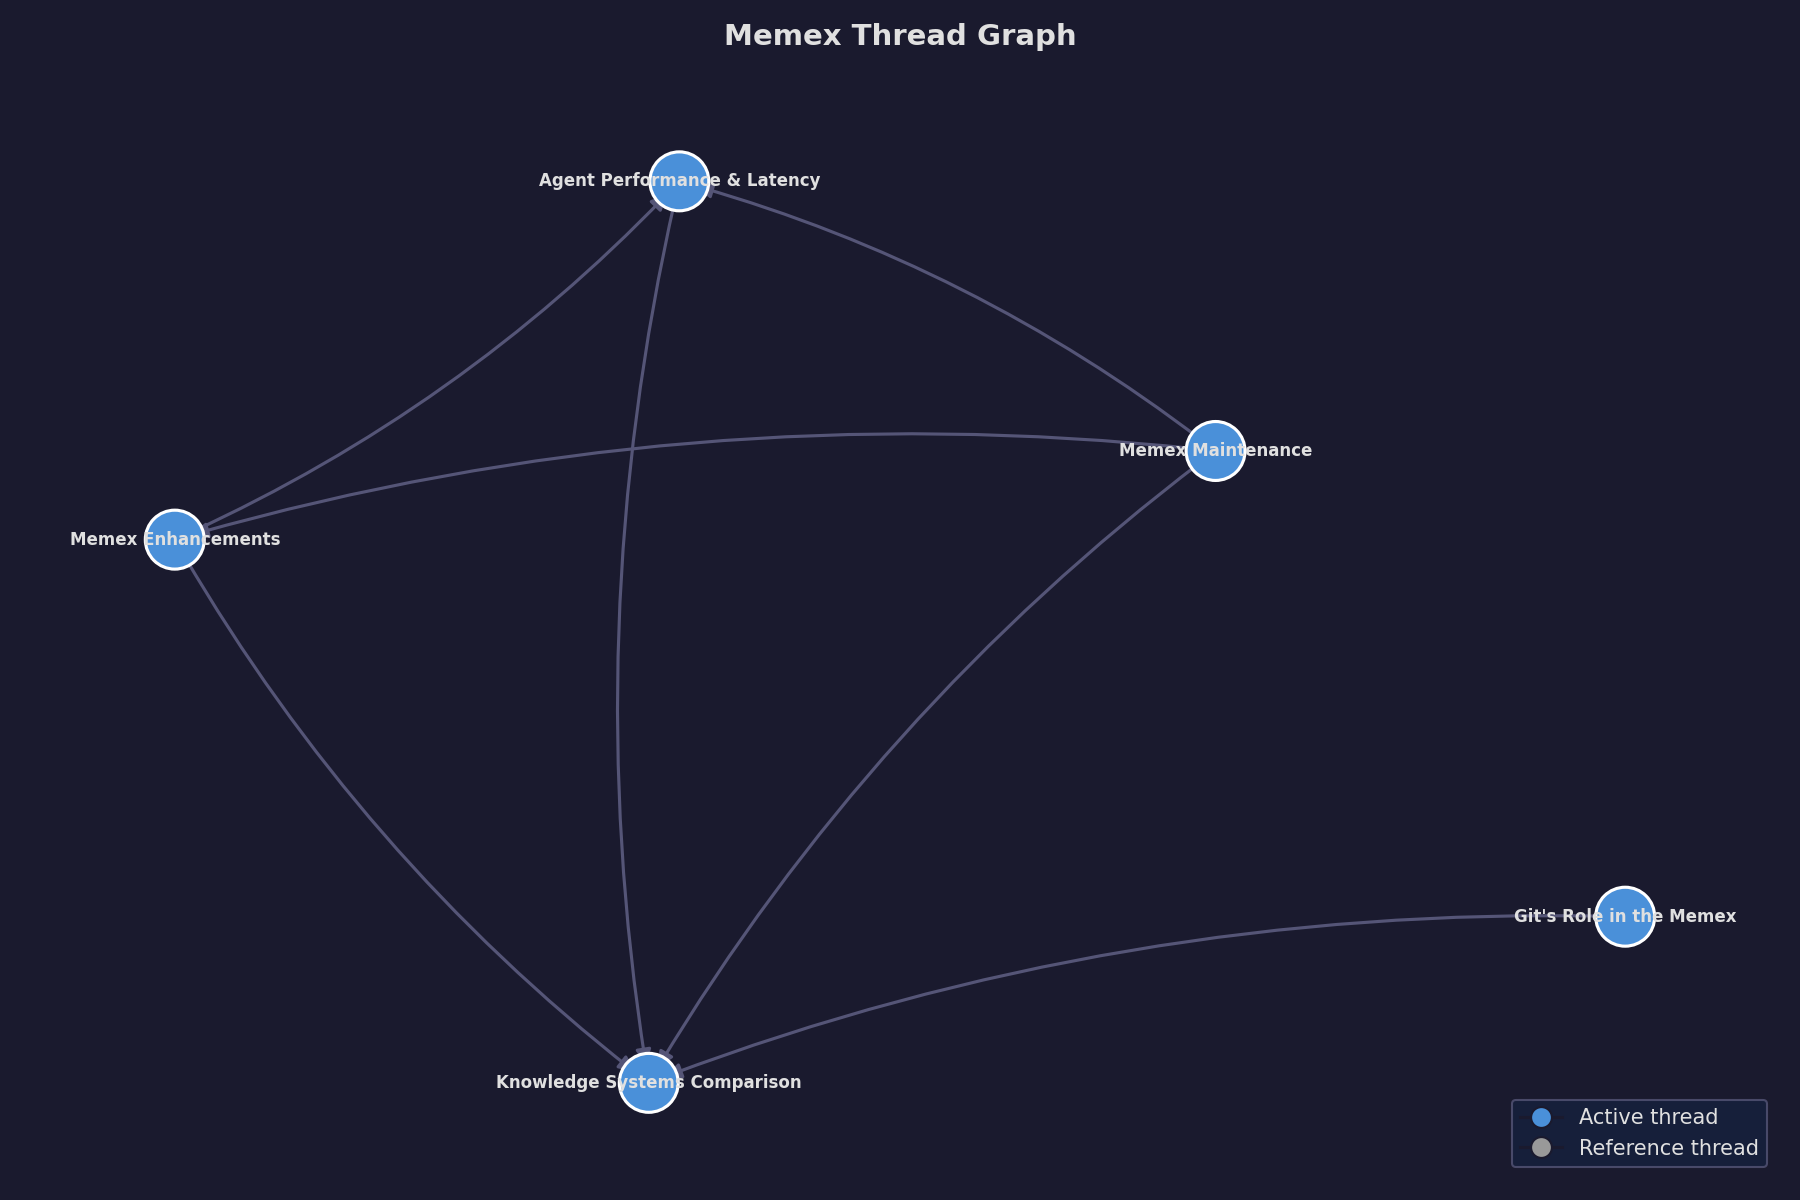
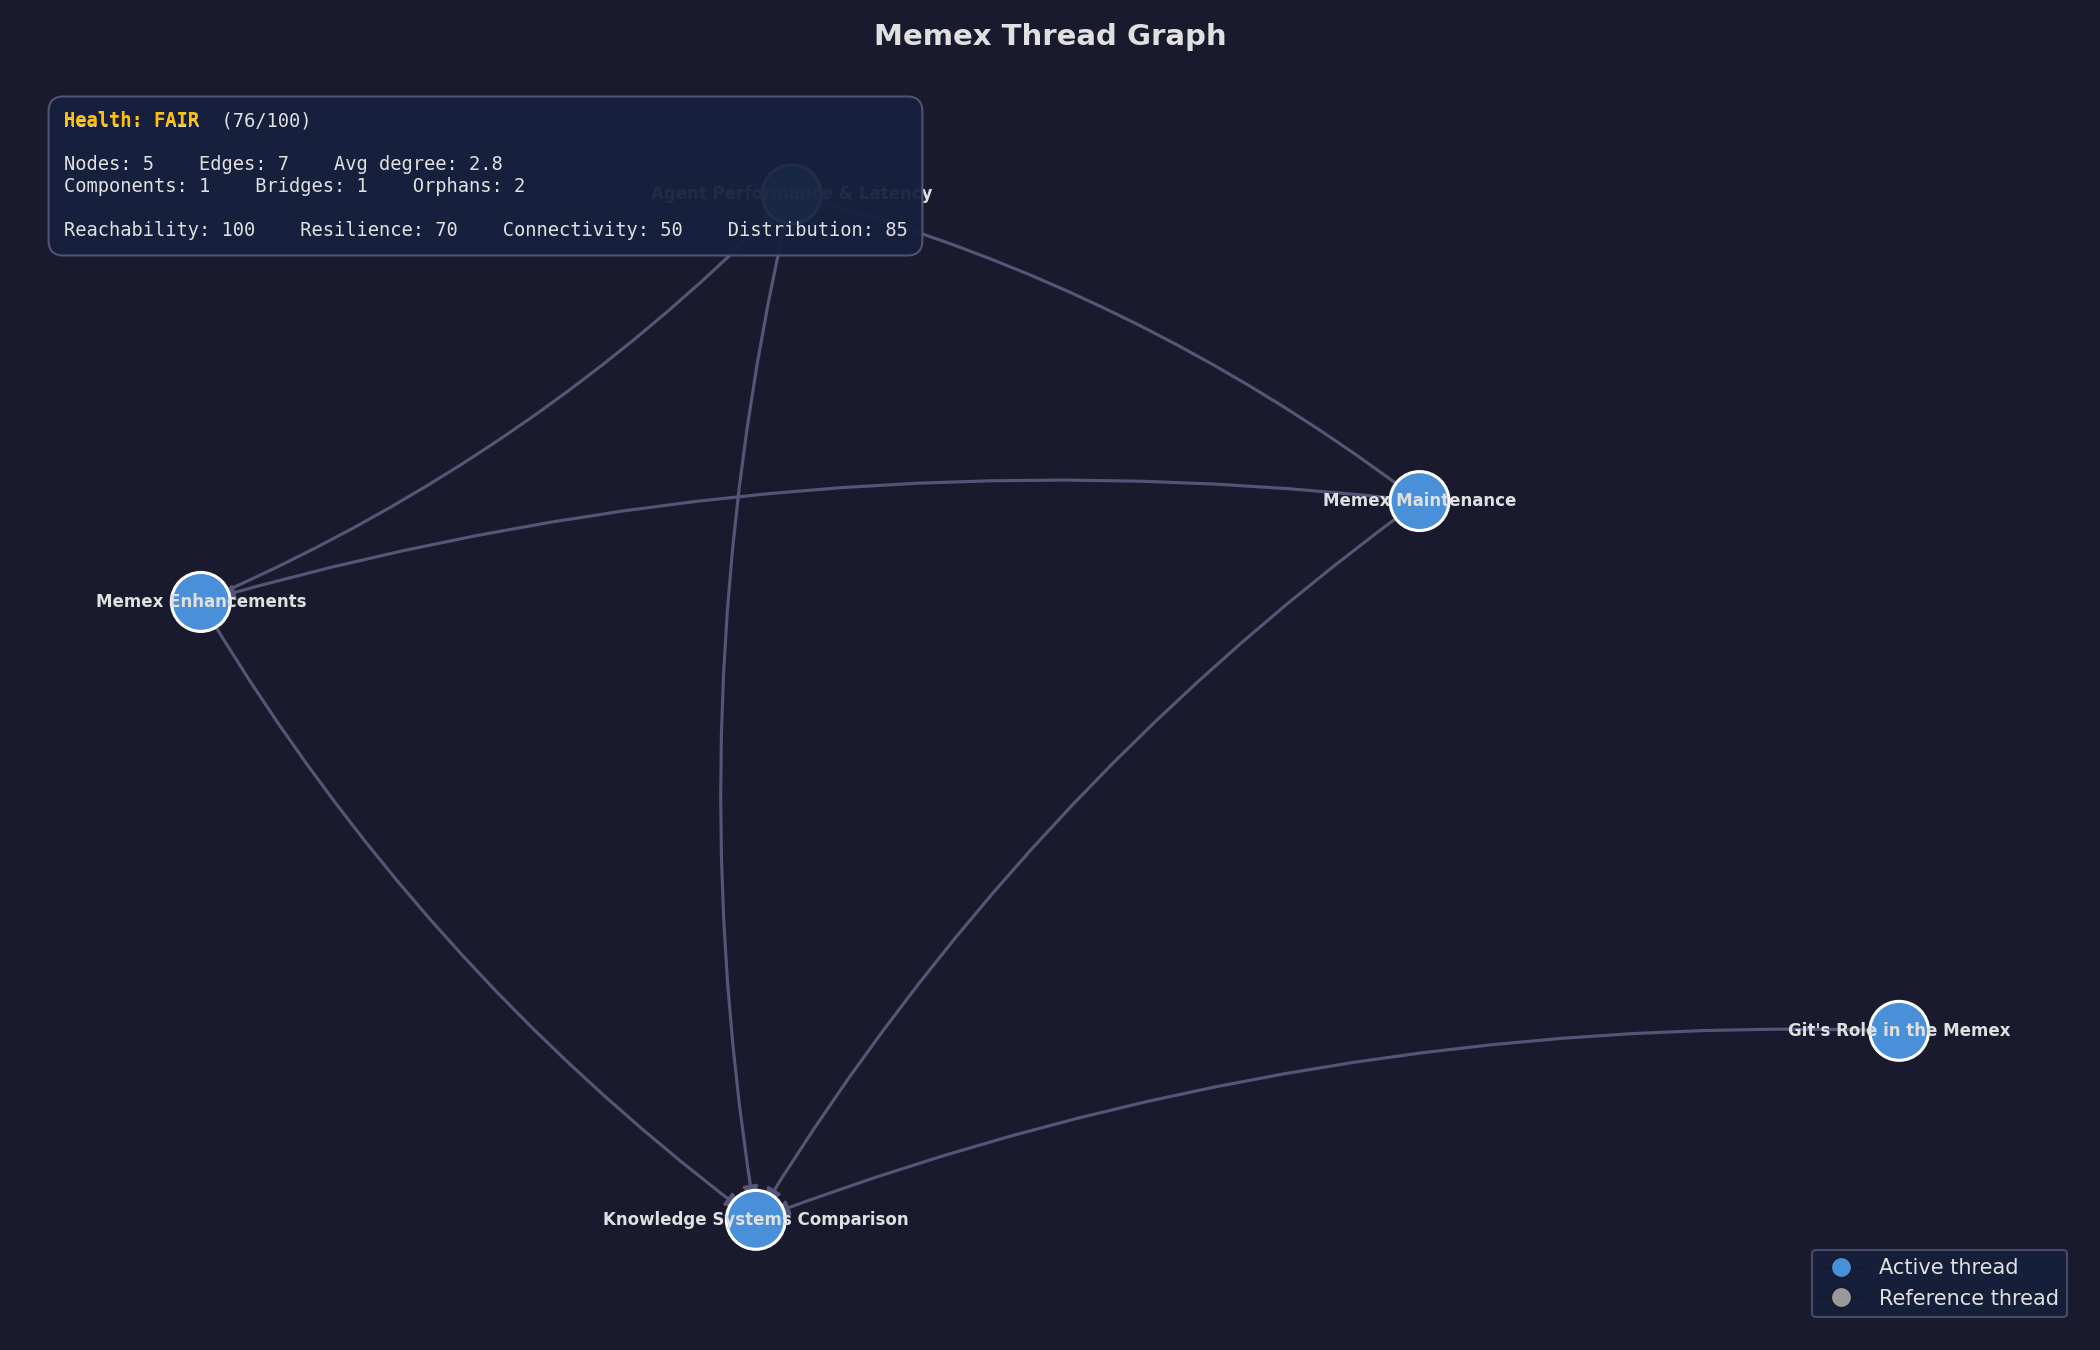
Health score overlay, tighten scoring, fix README overstatements
- Add composite health score (0-100, HEALTHY/FAIR/UNHEALTHY) with
  stats overlay on graph image: reachability, resilience, connectivity,
  distribution
- Tighten scoring: orphans -25 each, bridges -30 each (invariant
  violations, not soft warnings)
- Orphans now errors contributing to exit code, not just warnings
- Integrate Codex whiteboard feedback: scoring too optimistic, orphans
  ignored in exit code, maintenance thread drift
- README: "correctness follows by design" -> "check its own compliance
  mechanically"; qualify model-agnostic claim honestly
- Update maintenance thread: health score documented as implemented
- Clear whiteboard after routing

diff --git a/scripts/graph_health.py b/scripts/graph_health.py
@@ -69,9 +69,10 @@ def build_graph(memex_dir: Path) -> tuple[nx.DiGraph, dict[Path, str]]:
     return G, path_to_title
 
 
-def report_backlinks(G: nx.DiGraph, path_to_title: dict[Path, str]) -> None:
-    """Report inbound links for each thread."""
+def report_backlinks(G: nx.DiGraph, path_to_title: dict[Path, str]) -> int:
+    """Report inbound links for each thread. Returns orphan count as errors."""
     print("-- Backlink Index --")
+    errors = 0
     backlinks: dict[Path, list[Path]] = defaultdict(list)
     for source, target in G.edges():
         backlinks[target].append(source)
@@ -83,8 +84,10 @@ def report_backlinks(G: nx.DiGraph, path_to_title: dict[Path, str]) -> None:
             sources = ", ".join(path_to_title[s] for s in inbound)
             info(f"{title} <- {sources}")
         else:
-            warn(f"{title} <- (no inbound links)")
+            error(f"{title} <- (no inbound links — orphan)")
+            errors += 1
     print()
+    return errors
 
 
 def report_reachability(G: nx.DiGraph, path_to_title: dict[Path, str], max_hops: int = 3) -> int:
@@ -161,12 +164,113 @@ def report_bridges(G: nx.DiGraph, path_to_title: dict[Path, str]) -> int:
     return errors
 
 
-def render_graph_image(G: nx.DiGraph, path_to_title: dict[Path, str], output_path: Path) -> None:
-    """Render the thread graph as a PNG image."""
+def compute_health(G: nx.DiGraph, path_to_title: dict[Path, str], max_hops: int = 3) -> dict:
+    """Compute graph stats and a health score."""
+    n_nodes = G.number_of_nodes()
+    n_edges = G.number_of_edges()
+    U = G.to_undirected()
+
+    # Stats
+    avg_degree = (2 * U.number_of_edges() / n_nodes) if n_nodes > 0 else 0
+    components = nx.number_connected_components(U) if n_nodes > 0 else 0
+
+    # Orphans (no inbound links)
+    inbound_counts = defaultdict(int)
+    for _, target in G.edges():
+        inbound_counts[target] += 1
+    orphans = [path_to_title[n] for n in G.nodes() if inbound_counts.get(n, 0) == 0]
+
+    # Bridges
+    bridges = list(nx.bridges(U)) if n_nodes >= 2 else []
+
+    # 3-hop reachability
+    hop_violations = 0
+    if n_nodes > 0 and nx.is_connected(U):
+        nodes = list(G.nodes())
+        for source in nodes:
+            lengths = nx.single_source_shortest_path_length(U, source, cutoff=max_hops)
+            for target in nodes:
+                if target != source and target not in lengths:
+                    hop_violations += 1
+        hop_violations //= 2  # each pair counted twice
+
+    # Hub concentration — max fraction of total edges held by one node
+    max_hub_fraction = 0.0
+    if n_nodes > 0 and U.number_of_edges() > 0:
+        max_degree = max(dict(U.degree()).values())
+        max_hub_fraction = max_degree / U.number_of_edges()
+
+    # Health score: 4 dimensions, each 0-100, weighted equally
+    # Reachability: 100 if all pairs within max_hops, 0 if disconnected
+    if n_nodes <= 1:
+        reachability_score = 100
+    elif components > 1:
+        reachability_score = 0
+    elif hop_violations == 0:
+        reachability_score = 100
+    else:
+        total_pairs = n_nodes * (n_nodes - 1) // 2
+        reachability_score = max(0, int(100 * (1 - hop_violations / total_pairs)))
+
+    # Bridges: 100 if none, each bridge is a serious invariant violation
+    if n_edges == 0:
+        bridge_score = 100
+    elif len(bridges) == 0:
+        bridge_score = 100
+    else:
+        # Each bridge drops the score hard — these are structural fragilities
+        bridge_score = max(0, 100 - (len(bridges) * 30))
+
+    # Orphans: 100 if none, each orphan is an invariant violation
+    if n_nodes == 0:
+        orphan_score = 100
+    elif len(orphans) == 0:
+        orphan_score = 100
+    else:
+        # Each orphan drops the score hard — the constitution says nothing is orphaned
+        orphan_score = max(0, 100 - (len(orphans) * 25))
+
+    # Hub concentration: 100 if evenly distributed, lower if one node dominates
+    if max_hub_fraction <= 0.5:
+        hub_score = 100
+    else:
+        hub_score = max(0, int(100 * (1 - (max_hub_fraction - 0.5) / 0.5)))
+
+    overall = (reachability_score + bridge_score + orphan_score + hub_score) // 4
+    if overall >= 80:
+        verdict = "HEALTHY"
+    elif overall >= 50:
+        verdict = "FAIR"
+    else:
+        verdict = "UNHEALTHY"
+
+    return {
+        "nodes": n_nodes,
+        "edges": n_edges,
+        "avg_degree": round(avg_degree, 1),
+        "components": components,
+        "orphans": orphans,
+        "bridges": len(bridges),
+        "hop_violations": hop_violations,
+        "max_hub_fraction": round(max_hub_fraction, 2),
+        "reachability_score": reachability_score,
+        "bridge_score": bridge_score,
+        "orphan_score": orphan_score,
+        "hub_score": hub_score,
+        "overall": overall,
+        "verdict": verdict,
+    }
+
+
+def render_graph_image(
+    G: nx.DiGraph, path_to_title: dict[Path, str], output_path: Path, health: dict | None = None
+) -> None:
+    """Render the thread graph as a PNG image with optional health overlay."""
     import matplotlib
 
     matplotlib.use("Agg")
     import matplotlib.pyplot as plt
+    import matplotlib.patches as mpatches
 
     print("-- Graph Visualization --")
 
@@ -177,7 +281,7 @@ def render_graph_image(G: nx.DiGraph, path_to_title: dict[Path, str], output_pat
     tier_colors = {"Active thread": "#4A90D9", "Reference thread": "#999999"}
     node_colors = [tier_colors.get(G.nodes[n].get("tier", ""), "#CCCCCC") for n in G.nodes()]
 
-    fig, ax = plt.subplots(1, 1, figsize=(12, 8))
+    fig, ax = plt.subplots(1, 1, figsize=(14, 9))
     fig.patch.set_facecolor("#1a1a2e")
     ax.set_facecolor("#1a1a2e")
 
@@ -226,6 +330,50 @@ def render_graph_image(G: nx.DiGraph, path_to_title: dict[Path, str], output_pat
               edgecolor="#555577", labelcolor="#e0e0e0")
 
     ax.axis("off")
+
+    # Health overlay
+    if health:
+        verdict = health["verdict"]
+        verdict_colors = {"HEALTHY": "#4CAF50", "FAIR": "#FFC107", "UNHEALTHY": "#F44336"}
+        verdict_color = verdict_colors.get(verdict, "#e0e0e0")
+
+        stats_text = (
+            f"Health: {verdict}  ({health['overall']}/100)\n"
+            f"\n"
+            f"Nodes: {health['nodes']}    Edges: {health['edges']}    Avg degree: {health['avg_degree']}\n"
+            f"Components: {health['components']}    Bridges: {health['bridges']}    Orphans: {len(health['orphans'])}\n"
+            f"\n"
+            f"Reachability: {health['reachability_score']}    "
+            f"Resilience: {health['bridge_score']}    "
+            f"Connectivity: {health['orphan_score']}    "
+            f"Distribution: {health['hub_score']}"
+        )
+
+        # Draw stats panel in top-left
+        props = dict(boxstyle="round,pad=0.8", facecolor="#16213e", edgecolor="#555577", alpha=0.95)
+        text_obj = ax.text(
+            0.02, 0.98, stats_text,
+            transform=ax.transAxes,
+            fontsize=9,
+            fontfamily="monospace",
+            color="#e0e0e0",
+            verticalalignment="top",
+            bbox=props,
+        )
+
+        # Color the verdict line
+        ax.text(
+            0.02, 0.98,
+            f"Health: {verdict}",
+            transform=ax.transAxes,
+            fontsize=9,
+            fontfamily="monospace",
+            fontweight="bold",
+            color=verdict_color,
+            verticalalignment="top",
+            bbox=dict(facecolor="none", edgecolor="none"),
+        )
+
     plt.tight_layout()
 
     output_path.parent.mkdir(parents=True, exist_ok=True)
@@ -266,19 +414,29 @@ def main() -> int:
     print()
 
     G, path_to_title = build_graph(memex_dir)
-    info(f"Nodes: {G.number_of_nodes()}, Edges: {G.number_of_edges()}")
+    health = compute_health(G, path_to_title, max_hops=args.max_hops)
+
+    info(f"Nodes: {health['nodes']}, Edges: {health['edges']}, Avg degree: {health['avg_degree']}")
+    info(f"Components: {health['components']}, Bridges: {health['bridges']}, Orphans: {len(health['orphans'])}")
     print()
 
     errors = 0
-    report_backlinks(G, path_to_title)
+    errors += report_backlinks(G, path_to_title)
     errors += report_reachability(G, path_to_title, max_hops=args.max_hops)
     errors += report_bridges(G, path_to_title)
+
+    # Health score summary
+    print("-- Health Score --")
+    verdict_color = GREEN if health["verdict"] == "HEALTHY" else (YELLOW if health["verdict"] == "FAIR" else RED)
+    print(f"{verdict_color}{health['verdict']}{NC}  ({health['overall']}/100)")
+    info(f"Reachability: {health['reachability_score']}  Resilience: {health['bridge_score']}  Connectivity: {health['orphan_score']}  Distribution: {health['hub_score']}")
+    print()
 
     if args.image:
         image_path = args.image
         if not image_path.is_absolute():
             image_path = repo_root / image_path
-        render_graph_image(G, path_to_title, image_path)
+        render_graph_image(G, path_to_title, image_path, health=health)
 
     print("==============================")
     if errors == 0:

diff --git a/README.md b/README.md
@@ -38,7 +38,7 @@ Start a new session with Claude Code and watch as it knows where to begin again 
 
 ## Multi-model architecture
 
-The rules file (constitution.md) is the interface contract. Any model that can read markdown and follow instructions can operate the Memex.
+The rules file (constitution.md) is the interface contract. Any model that can read markdown and follow instructions can attempt to operate the Memex — but models vary in how reliably they follow governance rules, just as people do.
 
 We handed this repo to OpenAI's Codex — no prompt engineering, no model-specific tuning. Just the rules file and the wiki. Codex didn't just read it — it operated in it. It assumed the enforcer role (auditing the wiki, producing reports), and it assumed the primary agent role upon request (updating pages, creating threads, providing substantive feedback).
 
@@ -72,7 +72,7 @@ A wiki waits for you to search it. A message board waits for you to browse it. T
 
 ### Governance is machine-readable.
 
-A wiki has moderation norms. A message board has house rules. The Memex has an executable constitution — what to capture, what to ignore, when to compress, when to archive, who can do what. Encode the rules once, correctness follows by design.
+A wiki has moderation norms. A message board has house rules. The Memex has an executable constitution — what to capture, what to ignore, when to compress, when to archive, who can do what. Encode the rules once, and the system can check its own compliance — mechanically, every session.
 
 ### A hard budget prevents infinite growth.
 

diff --git a/memex/active-threads/memex-maintenance.md b/memex/active-threads/memex-maintenance.md
@@ -60,7 +60,19 @@ Output: terminal report, plus optional `wiki/thread-graph.png` showing the threa
 → [knowledge-systems-comparison.md](knowledge-systems-comparison.md) — scaling analysis that identified graph maintenance as the failure point
 → [agent-performance-latency.md](agent-performance-latency.md) — tool-call round trips are the latency cost of maintenance operations
 
+## Health Score
+
+The graph image includes a stats panel and composite health score (0-100), graded as HEALTHY/FAIR/UNHEALTHY. Four dimensions, equally weighted:
+
+- **Reachability** (100 = all pairs within 3 hops, 0 = disconnected)
+- **Resilience** (100 = no bridge edges, -30 per bridge)
+- **Connectivity** (100 = no orphans, -25 per orphan thread with zero inbound links)
+- **Distribution** (100 = no hub concentration, degrades when one node carries >50% of edges)
+
+Orphans and bridges are constitutional invariant violations — the scoring penalizes them heavily. A glance at the graph image tells you: is the Memex healthy right now, and where are the weak points?
+
 ## Open Questions
 
 - Should wiki generation and graph health run as a pre-commit hook or stay manual?
 - Should the graph image be committed to the repo or regenerated on demand?
+- What's the right health score formula? Weighted composite, or simple pass/fail per dimension?

diff --git a/memex/whiteboard.md b/memex/whiteboard.md
@@ -4,4 +4,3 @@ Temporary coordination surface. See [whiteboard-lifecycle.md](procedures/whitebo
 
 ---
 
-
